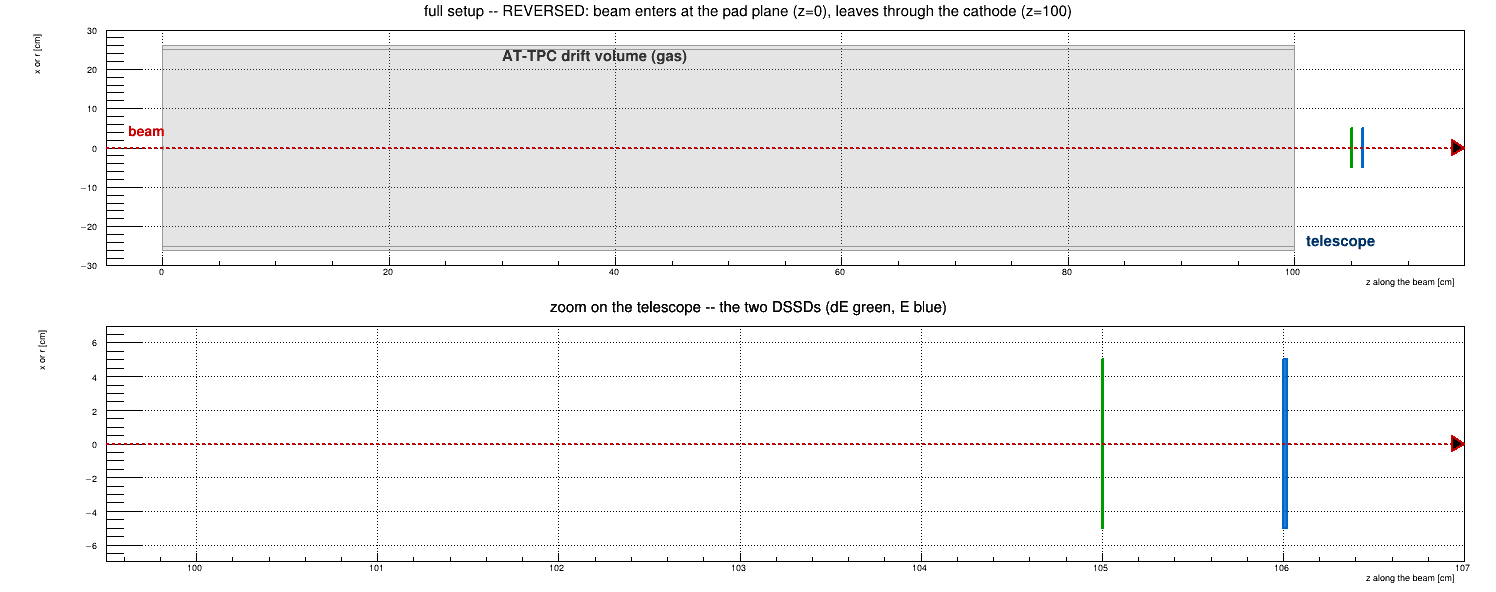
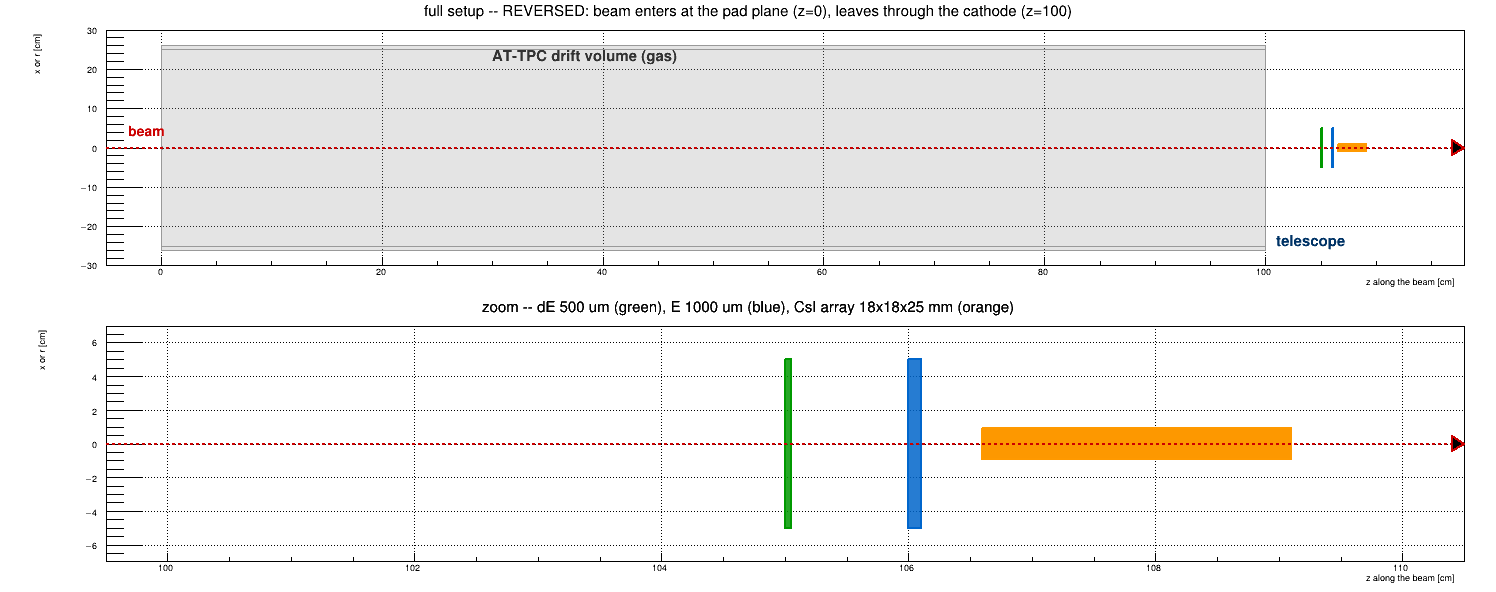
Telescope: the real stack -- 500/1000 um Si plus the CsI array
Corrected to the hardware (Yassid): dE 500 um and E 1000 um silicon DSSDs, then
an array of CsI elements 18 x 18 mm on the face and 25 mm deep. The silicon
thicknesses are what geometry/Si_forward_telescope.C already had; my earlier
20/200 came from my own stopping-power estimate and was wrong.

The 5 x 5 element count is an ASSUMPTION -- 90 x 90 mm, matching the 10 x 10 cm
silicon in front. The element size and depth are the hardware. kNCsI is the
first thing to change if the real array differs.

AtSiArray::CheckIfSensitive now accepts "CsI" as well as "silicon", so the whole
stack is one module. Purely additive: no geometry driven by AtSiArray contains a
CsI volume today (the HELIOS arrays are silicon only) and APOLLO's CsI is read
out by AtApollo, so nothing that works today changes. The comment there also
records the shape of that test -- sensitivity is decided by a SUBSTRING of the
volume name, and an unrecognised name is silently non-sensitive.

WHAT THE SIMULATION SAYS, AND IT DOES NOT MATCH A STACK BUILT THIS WAY.
GEANT4 puts the whole 47K residual -- 479 MeV of it -- into the 500 um dE, with
NOTHING reaching the E layer or the CsI. AtELossCATIMA is not much better: it
gives a 573 um range at 461 MeV, so the residual barely punches the dE either
way. A telescope that deliberately places CsI behind 1.5 mm of silicon is not
built for particles that stop in the first 500 um.

The most likely reading is that the CsI is there for LIGHT ejectiles rather than
[…]

diff --git a/geometry/Ar46_telescope.C b/geometry/Ar46_telescope.C
@@ -8,27 +8,24 @@
 /// so the exit aperture can be large without removing pads -- which is what makes this telescope
 /// possible. It sits just past the end of the drift volume and catches the heavy residual.
 ///
-/// THICKNESSES: 20 um dE + 200 um E, SET BY YASSID (2026-09-05). Si_forward_telescope.C's
-/// 500 um dE is far too thick for this beam whichever stopping model you believe.
+/// THE STACK IS THE REAL HARDWARE (Yassid, 2026-09-05):
 ///
-/// !! THE STOPPING POWER HERE IS UNRESOLVED -- DO NOT TREAT THE NUMBERS BELOW AS SETTLED. !!
-/// Two calculations disagree by a factor ~4.5 for a 461 MeV 47K in silicon:
+///     dE    500 um silicon DSSD
+///     E    1000 um silicon DSSD
+///     CsI  array of 18 x 18 mm elements, 25 mm deep
 ///
-///     AtELossCATIMA        60 MeV in 100 um   (range ~570 um)
-///     GEANT4, as measured in this simulation      279 MeV in 100 um   (stops in ~150-200 um)
+/// which is also what geometry/Si_forward_telescope.C had for the silicon -- my earlier 20/200
+/// suggestion came from my own stopping-power estimate and was wrong. The CsI is there precisely
+/// because ions punch through 1.5 mm of silicon, so the CsI is not optional decoration; it is
+/// where the remaining energy is measured.
 ///
-/// A scaling of this simulation's own gas energy loss (the beam loses 96 MeV over 8.3e-3 g/cm2,
-/// i.e. ~11600 MeV/(g/cm2), scaled to Si by Z/A) lands near the GEANT4 value -- but Yassid has
-/// flagged the argument as not right and it is to be revisited. So the thicknesses here are a
-/// DECISION, not a derivation, and the CATIMA/GEANT4 discrepancy is an open item that also
-/// affects AtELossCATIMA wherever else this analysis uses it.
-///
-/// The CsI of the original is dropped -- nothing gets that far under either model.
-///
-/// WHY A dE-E TELESCOPE AT ALL: Z TAGGING. The residual (Z = 19) and the unreacted beam (Z = 18)
-/// arrive at the same place with similar energies, and dE goes as Z^2, so they separate by
-/// (19/18)^2 - 1 = 11.4 % in dE. That ratio is INDEPENDENT of the dE thickness, so the thickness
-/// is chosen purely on signal size and punch-through, as above.
+/// !! AN OPEN DISCREPANCY, RECORDED SO IT IS NOT REDISCOVERED. !! GEANT4 in this simulation has
+/// a 461 MeV 47K depositing 279 MeV in only 100 um of silicon, i.e. stopping in ~150-200 um,
+/// which cannot be reconciled with a stack that deliberately puts CsI behind 1.5 mm of silicon.
+/// AtELossCATIMA disagrees with GEANT4 by a factor ~4.5 on the same case. Something in that chain
+/// is wrong and it has NOT been resolved -- so read the deposits this geometry produces as a
+/// measurement to be checked against the real detector, not as a prediction to trust. The same
+/// question hangs over AtELossCATIMA wherever else this analysis uses it.
 ///
 /// SIZE AND STANDOFF. The residual stays within 3.33 deg of the axis over the proposal's
 /// theta_cm 15-80 deg window, but the vertex is spread over the whole metre of gas, so the lever
@@ -66,6 +63,7 @@ const TString FileName1 = geoVersion + "_geomanager.root";
 
 const TString MediumSi = "silicon";
 const TString MediumVacuum = "vacuum4";
+const TString MediumCsI = "CsI";
 
 TGeoManager *gGeoMan = new TGeoManager("Ar46Tel", "Ar46Tel");
 
@@ -75,8 +73,15 @@ const Double_t kYSize = 10.0;  ///< active height [cm]
 const Double_t kDriftEnd = 100.0; ///< z of the cathode = end of the drift volume [cm]
 const Double_t kGap = 5.0;     ///< clearance between the cathode and the first DSSD [cm]
 const Double_t kZFront = kDriftEnd + kGap;
-const Double_t kDEThick = 0.0020; ///< dE DSSD,  20 um  (set by Yassid; see the header)
-const Double_t kEThick = 0.0200;  ///< E  DSSD, 200 um  (set by Yassid; see the header)
+const Double_t kDEThick = 0.0500; ///< dE DSSD,  500 um
+const Double_t kEThick = 0.1000;  ///< E  DSSD, 1000 um
+// CsI array: 18 x 18 mm entrance face, 25 mm deep. 5 x 5 covers 90 x 90 mm, i.e. the 10 x 10 cm
+// silicon in front of it -- the element size is the hardware, the 5 x 5 count is an assumption
+// and is the first thing to change if the real array differs.
+const Int_t kNCsI = 5;            ///< elements per side
+const Double_t kCsIFace = 1.8;    ///< entrance face [cm]
+const Double_t kCsIDepth = 2.5;   ///< depth [cm]
+const Double_t kCsIGap = 0.5;     ///< gap between the E DSSD and the CsI front face [cm]
 const Double_t kSep = 1.0;        ///< gap between the two DSSDs [cm]
 
 void create_materials_from_media_file();
@@ -120,7 +125,10 @@ void Ar46_telescope()
    std::cout << "\n  wrote " << FileName << " and " << FileName1 << "\n"
              << "  dE  DSSD: " << kDEThick * 1e4 << " um at z = " << kZFront << " cm\n"
              << "  E   DSSD: " << kEThick * 1e4 << " um at z = " << kZFront + kSep << " cm\n"
-             << "  active  : " << kXSize << " x " << kYSize << " cm, "
+             << "  CsI     : " << kNCsI << " x " << kNCsI << " of " << kCsIFace * 10 << " x "
+             << kCsIFace * 10 << " mm, " << kCsIDepth * 10 << " mm deep, front face at z = "
+             << kZFront + kSep + kEThick + kCsIGap << " cm\n"
+             << "  Si active: " << kXSize << " x " << kYSize << " cm, "
              << kGap << " cm beyond the cathode at z = " << kDriftEnd << " cm\n\n";
 
    // Opens the OpenGL viewer when run interactively (root -l). Skipped under -b so the batch
@@ -145,12 +153,14 @@ void create_materials_from_media_file()
    // media past Ar90CF4_250mbar has hung FairGeoMedia and taken the machine out of memory before.
    FairGeoMedium *silicon = geoMedia->getMedium("silicon");
    FairGeoMedium *vacuum4 = geoMedia->getMedium("vacuum4");
-   if (!silicon || !vacuum4) {
-      std::cerr << "MISSING MEDIUM: silicon or vacuum4 not found in media.geo\n";
+   FairGeoMedium *csi = geoMedia->getMedium("CsI");
+   if (!silicon || !vacuum4 || !csi) {
+      std::cerr << "MISSING MEDIUM: silicon, vacuum4 or CsI not found in media.geo\n";
       return;
    }
    geoBuild->createMedium(silicon);
    geoBuild->createMedium(vacuum4);
+   geoBuild->createMedium(csi);
 }
 
 TGeoVolume *create_detector()
@@ -176,6 +186,30 @@ TGeoVolume *create_detector()
    TGeoVolume *E = gGeoManager->MakeBox("silicon_Ar46_E", silicon, kXSize / 2, kYSize / 2, kEThick / 2);
    gGeoMan->GetVolume(geoVersion)->AddNode(E, 0, new TGeoTranslation(0.0, 0.0, kZFront + kSep + kEThick / 2));
    E->SetLineColor(kAzure + 2);
+
+   // --- CsI array ------------------------------------------------------------------------------
+   // Each element is its own volume and its own node, so AtSiPoint carries which element fired and
+   // the array is position sensitive at the element level without any strip decoding.
+   //
+   // The name must contain "CsI": AtSiArray::CheckIfSensitive tests substrings of the volume name,
+   // and anything it does not recognise is silently non-sensitive.
+   TGeoMedium *csi = gGeoMan->GetMedium(MediumCsI);
+   if (!csi) {
+      std::cerr << "MISSING MEDIUM: CsI not found -- the array will not be built\n";
+      return dE;
+   }
+   const Double_t zCsI = kZFront + kSep + kEThick + kCsIGap;
+   for (Int_t ix = 0; ix < kNCsI; ++ix) {
+      for (Int_t iy = 0; iy < kNCsI; ++iy) {
+         const Double_t x = (ix - (kNCsI - 1) / 2.0) * kCsIFace;
+         const Double_t y = (iy - (kNCsI - 1) / 2.0) * kCsIFace;
+         TGeoVolume *el = gGeoManager->MakeBox(Form("CsI_Ar46_%d_%d", ix, iy), csi, kCsIFace / 2,
+                                               kCsIFace / 2, kCsIDepth / 2);
+         el->SetLineColor(kYellow - 9);
+         gGeoMan->GetVolume(geoVersion)->AddNode(el, ix * kNCsI + iy,
+                                                 new TGeoTranslation(x, y, zCsI + kCsIDepth / 2));
+      }
+   }
 
    return dE;
 }

diff --git a/macro/Simulation/ATTPC/46Ar_3Hed/draw_geometry_Ar46.C b/macro/Simulation/ATTPC/46Ar_3Hed/draw_geometry_Ar46.C
@@ -68,7 +68,9 @@ void draw_geometry_Ar46(TString outPng = "plots/geometry_Ar46.png")
          const auto &b = boxes[i];
          const bool tel = (i >= n0);
          if (b.z1 < zlo || b.z0 > zhi) continue;
-         int col = tel ? (b.name.Contains("dE") ? kGreen + 2 : kAzure + 2) : kGray + 1;
+         int col = !tel ? kGray + 1
+                        : b.name.Contains("_dE") ? kGreen + 2
+                        : b.name.Contains("CsI") ? kOrange - 3 : kAzure + 2;
          // A SOLID volume (rmin = 0) spans -rmax..+rmax as ONE band. Only a hollow one (a vessel
          // shell, rmin > 0) is two bands. Drawing the solid case as a single positive band was
          // wrong and made the DSSDs look like half-detectors.
@@ -93,7 +95,7 @@ void draw_geometry_Ar46(TString outPng = "plots/geometry_Ar46.png")
 
    c->cd(1);
    gPad->SetGridx(); gPad->SetGridy(); gPad->SetLeftMargin(0.07); gPad->SetRightMargin(0.02);
-   drawFrame(-5, 115, 30, "full setup -- REVERSED: beam enters at the pad plane (z=0), leaves through the cathode (z=100)");
+   drawFrame(-5, 118, 30, "full setup -- REVERSED: beam enters at the pad plane (z=0), leaves through the cathode (z=100)");
    {
       auto *t = new TLatex(); t->SetTextSize(0.055);
       t->SetTextColor(kGray + 3); t->DrawLatex(30, 22, "AT-TPC drift volume (gas)");
@@ -103,7 +105,7 @@ void draw_geometry_Ar46(TString outPng = "plots/geometry_Ar46.png")
 
    c->cd(2);
    gPad->SetGridx(); gPad->SetGridy(); gPad->SetLeftMargin(0.07); gPad->SetRightMargin(0.02);
-   drawFrame(99.5, 107, 7, "zoom on the telescope -- the two DSSDs (dE green, E blue)");
+   drawFrame(99.5, 110.5, 7, "zoom -- dE 500 um (green), E 1000 um (blue), CsI array 18x18x25 mm (orange)");
 
    gSystem->mkdir("plots", kTRUE);
    c->SaveAs(outPng);
